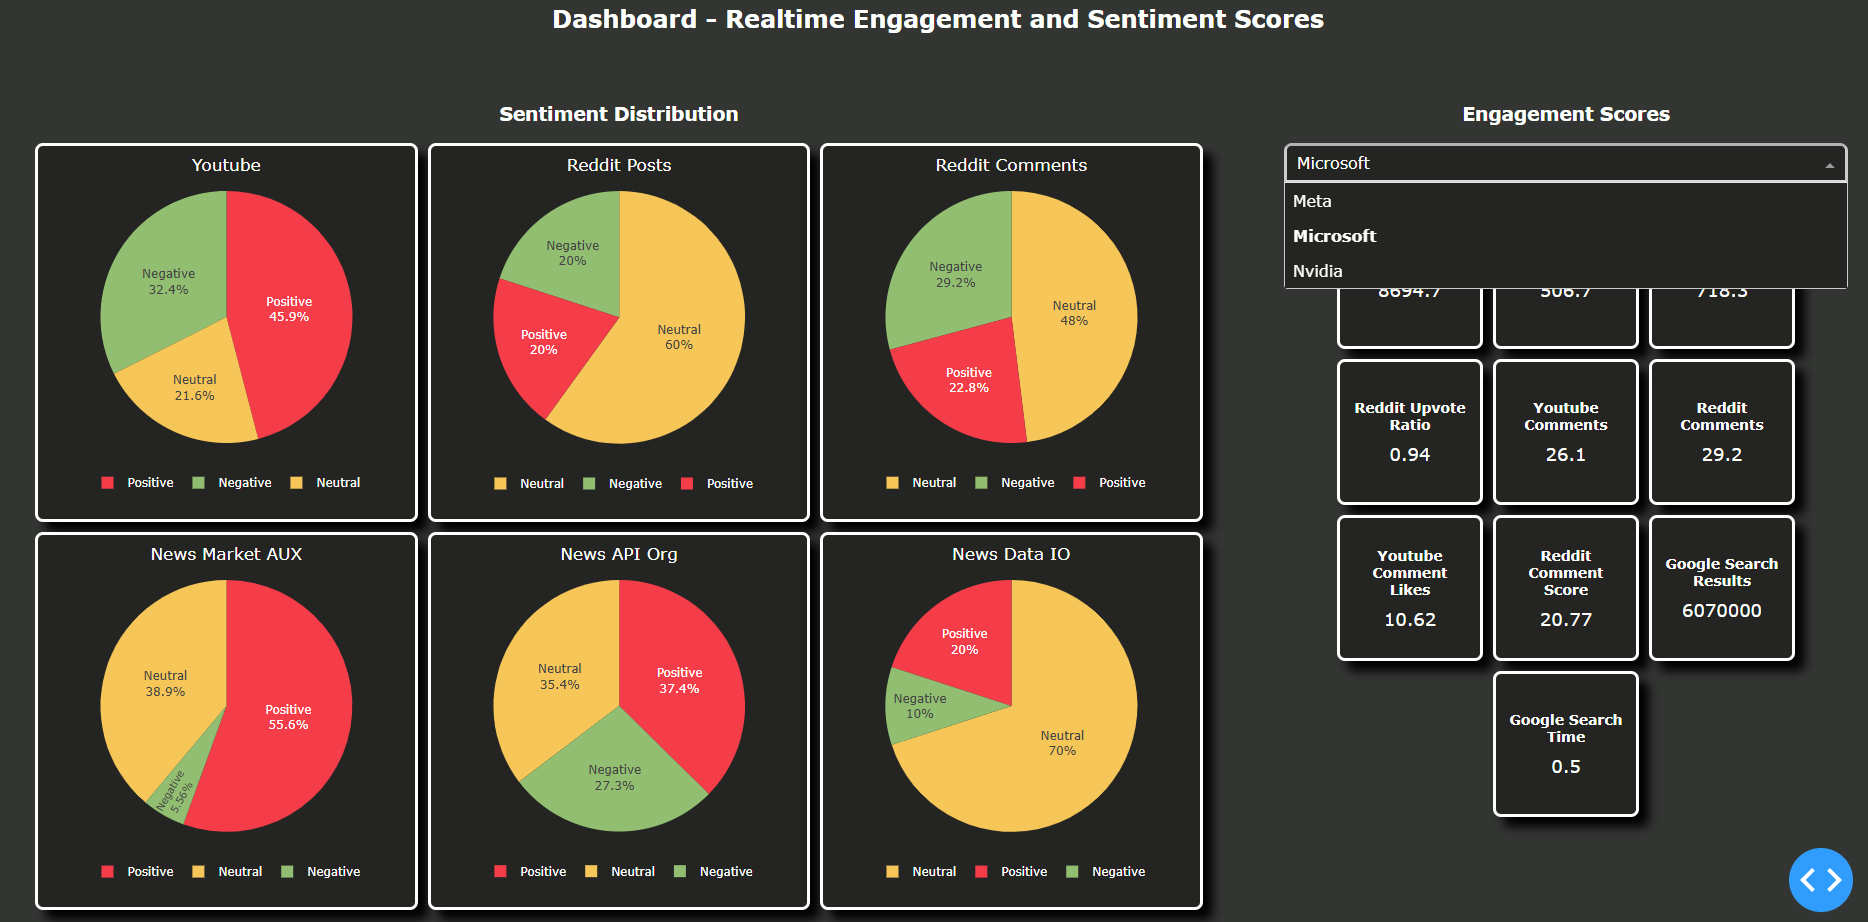
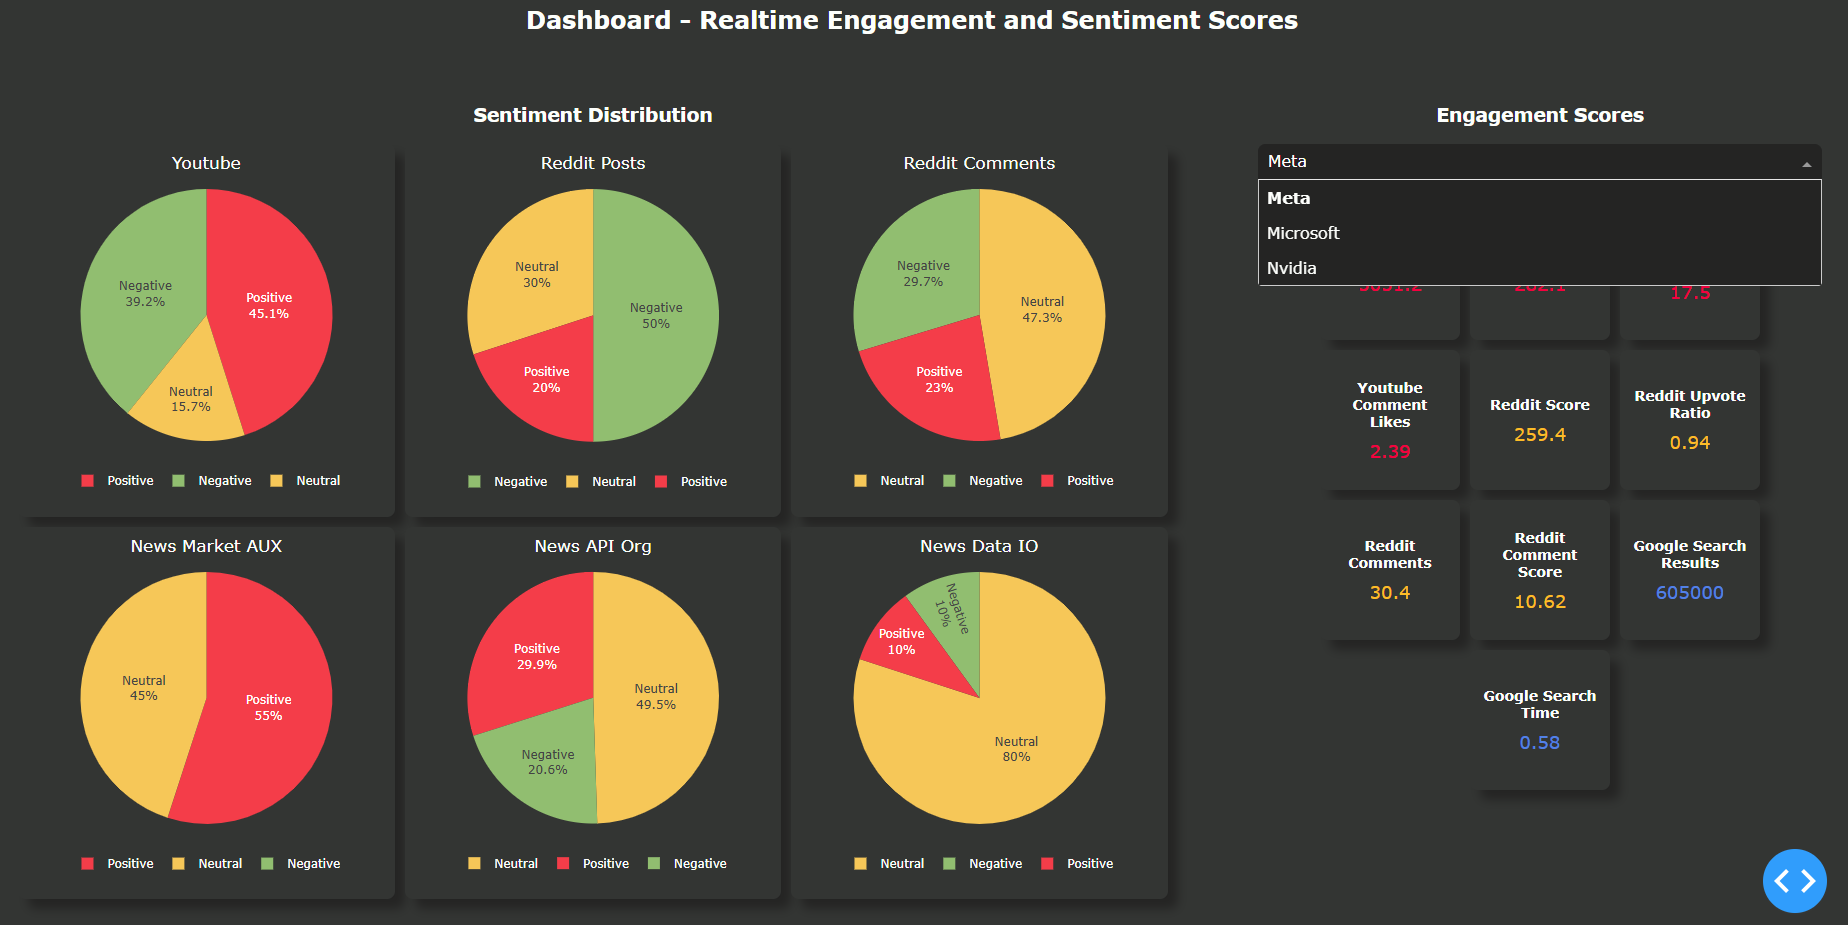
updated dashboard...again

diff --git a/src/dashboard/assets/style.css b/src/dashboard/assets/style.css
@@ -5,7 +5,7 @@
     --select_bg: #242423;
     --select_txt: #fdfffc;
 
-    --card_bg: #242423;
+    --card_bg: #333533;
     --card_txt: #fdfffc;
 
     --border_bg: #fdfffc;
@@ -32,9 +32,9 @@ html, body {
     background-color: var(--select_bg) !important;
     color: var(--select_txt) !important;
     
-    border-width: 3px;
-    border-color: var(--border_bg);
-    border-style: solid;
+    /* border-width: 3px;
+    border-color: var(--border_bg); */
+    border-style: none;
     border-radius: 8px;
 }
 
@@ -76,18 +76,18 @@ html, body {
     color: var(--card_txt);
     
     /* More dominant, modern box shadow */
-    box-shadow: 10px 10px 10px rgba(0, 0, 0, 1);
-    transition: all 0.2s ease;
+    box-shadow: 10px 10px 10px #242423;
+    transition: all 0.3s ease;
 
-    border-width: 3px;
+    /* border-width: 3px;
     border-color: var(--border_bg);
-    border-style: solid;
+    border-style: solid; */
     border-radius: 8px;
 }
   
 .KpiBox:hover {
     transform: translateY(-3px);
-    box-shadow: 20px 20px 20px rgba(0, 0, 0, 0.5);
+    box-shadow: 10px 10px 20px #242423;
 }
   
 
@@ -104,11 +104,11 @@ html, body {
 .PieDiv {
     background: var(--card_bg);
 
-    box-shadow: 10px 10px 10px rgba(0, 0, 0, 1);
-    transition: all 0.2s ease;
+    box-shadow: 10px 10px 10px #242423;
+    transition: all 0.3s ease;
 
-    border-width: 3px;
+    /* border-width: 3px;
     border-color: var(--border_bg);
-    border-style: solid;
+    border-style: solid; */
     border-radius: 8px;
 }

diff --git a/src/dashboard/dashboard.py b/src/dashboard/dashboard.py
@@ -14,16 +14,16 @@ from src.load.db import (
 def get_data(company):
     return {
         "kpis": {
-            "Youtube Views": engagement_youtube_avg_views(company).iloc[0]["views"],
-            "Reddit Score": engagement_reddit_avg_score(company).iloc[0]["score"],
-            "Youtube Likes": engagement_youtube_avg_likes(company).iloc[0]["likes"],
-            "Reddit Upvote Ratio": engagement_reddit_avg_upvote_ratio(company).iloc[0]["upvote_ratio"],
-            "Youtube Comments": engagement_youtube_avg_comments(company).iloc[0]["comments"],
-            "Reddit Comments": engagement_reddit_avg_comments(company).iloc[0]["comments"],
-            "Youtube Comment Likes": engagement_youtube_avg_comment_likes(company).iloc[0]["likes"],
-            "Reddit Comment Score": engagement_reddit_avg_comment_score(company).iloc[0]["score"],
-            "Google Search Results": engagement_googlesearch_search_results(company).iloc[0]["search_results"],
-            "Google Search Time": engagement_googlesearch_format_time(company).iloc[0]["format_time"]
+            "Youtube Views": {"data": engagement_youtube_avg_views(company).iloc[0]["views"], "color": "#fa003a"},
+            "Youtube Likes": {"data": engagement_youtube_avg_likes(company).iloc[0]["likes"], "color": "#fa003a"},
+            "Youtube Comments": {"data": engagement_youtube_avg_comments(company).iloc[0]["comments"], "color": "#fa003a"},
+            "Youtube Comment Likes": {"data": engagement_youtube_avg_comment_likes(company).iloc[0]["likes"], "color": "#fa003a"},
+            "Reddit Score": {"data": engagement_reddit_avg_score(company).iloc[0]["score"], "color": "#FFBD00"},
+            "Reddit Upvote Ratio": {"data": engagement_reddit_avg_upvote_ratio(company).iloc[0]["upvote_ratio"], "color": "#FFBD00"},
+            "Reddit Comments": {"data": engagement_reddit_avg_comments(company).iloc[0]["comments"], "color": "#FFBD00"},
+            "Reddit Comment Score": {"data": engagement_reddit_avg_comment_score(company).iloc[0]["score"], "color": "#FFBD00"},
+            "Google Search Results": {"data": engagement_googlesearch_search_results(company).iloc[0]["search_results"], "color": "#4a81e9"},
+            "Google Search Time": {"data": engagement_googlesearch_format_time(company).iloc[0]["format_time"], "color": "#4a81e9"}
         },
         "pie_data": [
             {"title": "Youtube", "data": sentiment_youtube_comments(company)},
@@ -37,7 +37,7 @@ def get_data(company):
 
 app = dash.Dash(__name__)
 
-dark_theme = {"background": "#333533", "card": "#242423", "text": "#fdfffc"}
+dark_theme = {"background": "#333533", "card": "#333533", "text": "#fdfffc"}
 
 app.layout = html.Div([
     html.H2("Dashboard - Realtime Engagement and Sentiment Scores", 
@@ -77,7 +77,7 @@ def update_dashboard(company):
     kpi_boxes = [
         html.Div([
             html.Div(key, style={"fontSize": "14px", "fontWeight": "bold", "margin-bottom": "10px"}),
-            html.Div(val, style={"fontSize": "18px"})
+            html.Div(val["data"], style={"fontSize": "18px", "color": val["color"]})
         ], className="KpiBox") for key, val in data["kpis"].items()
     ]
     
